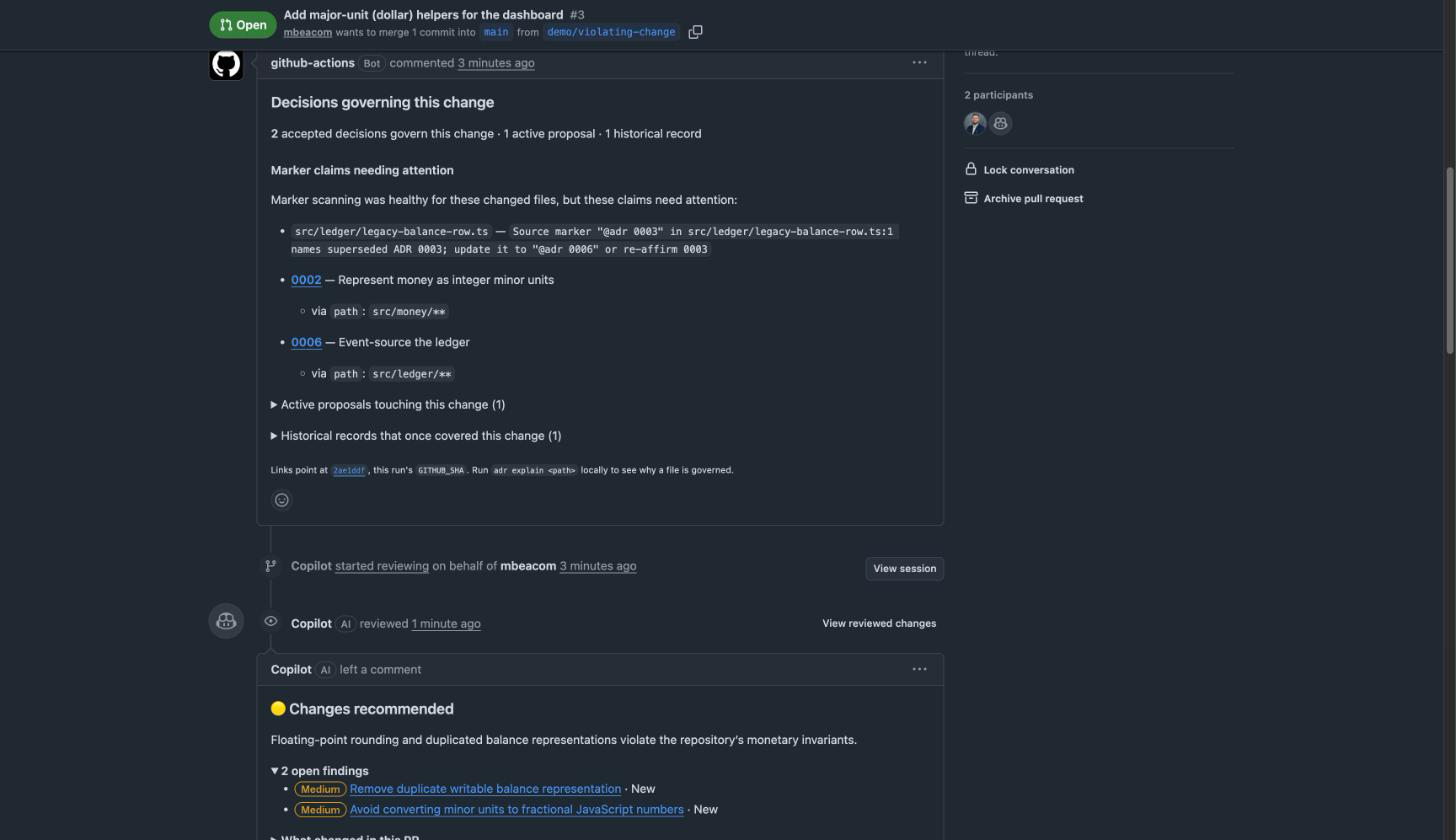
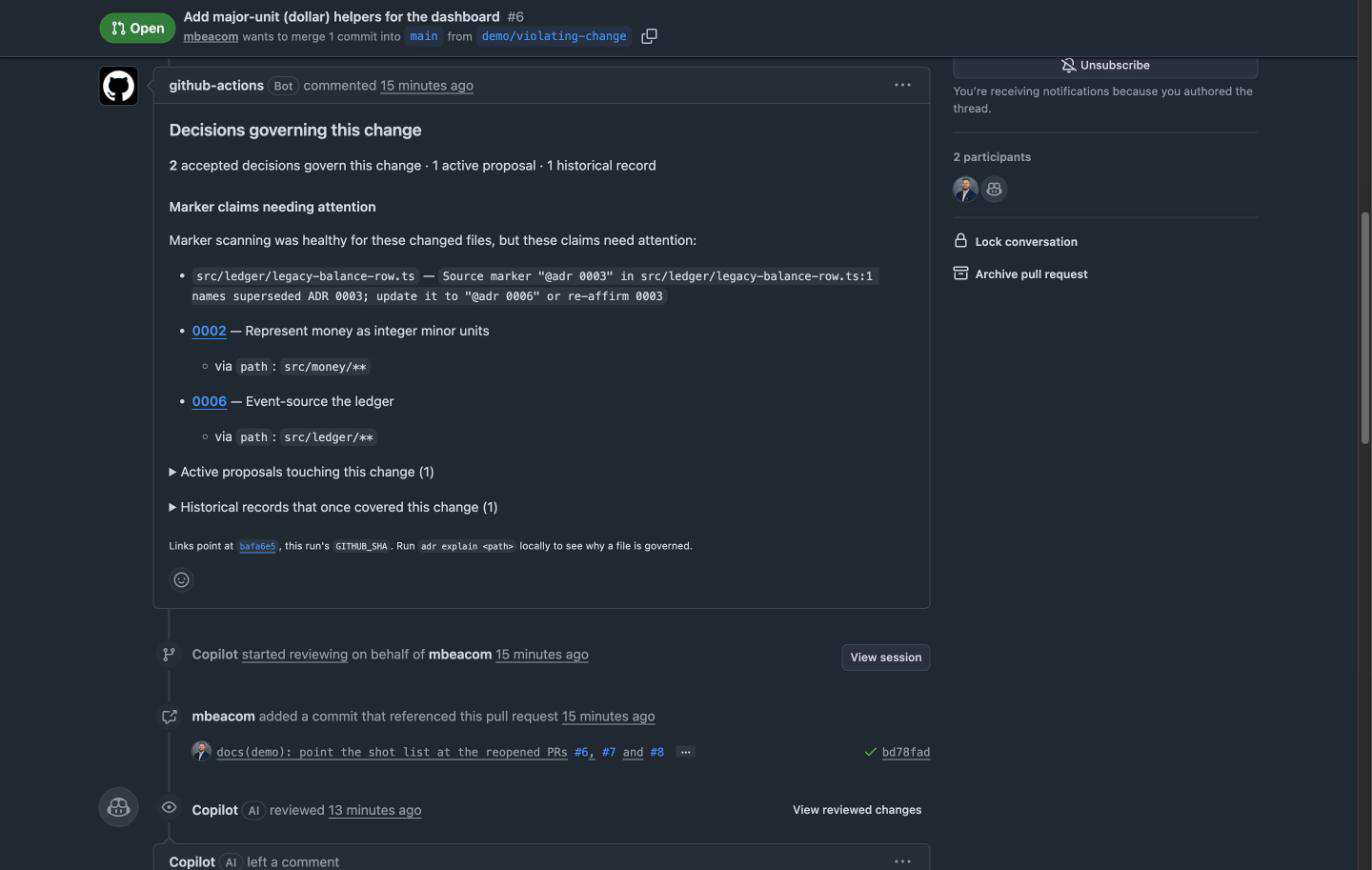
docs(demo): retake the PR screenshots on the reopened PRs

diff --git a/docs/demo/SHOTLIST.md b/docs/demo/SHOTLIST.md
@@ -166,7 +166,7 @@ The rest are free.
 
 PRs #7 and #8 both add an ADR-0010. They are screenshot subjects and stay open; merging either would force the other to renumber.
 
-The violating, new-decision and invalid-record PRs were first opened as #3, #4 and #5, and reopened as #6, #7 and #8 after a history rewrite. The screenshots below were taken on the originals, so they show the old numbers; retake them if the numbers matter on screen.
+The violating, new-decision and invalid-record PRs were first opened as #3, #4 and #5, and reopened as #6, #7 and #8 after a history rewrite. The screenshots below were retaken on the reopened PRs.
 
 ## Recorded already
 
@@ -189,6 +189,7 @@ The violating, new-decision and invalid-record PRs were first opened as #3, #4 a
 | G4 | `screenshots/issue-queue.png` | Managed ADR ARB Queue issue with 0010 and 0009 |
 | G5 | `screenshots/readme.png` | README rendering |
 | G6 | `screenshots/pr-4-comment.png` | New-decision PR #7 and its comment |
+| G6b | `screenshots/pr-4-description.png` | New-decision PR #7's description |
 
 Re-render a tape from the repository root with `vhs docs/demo/tapes/<name>.tape`.
 `06` needs the branch first: `DEMO_PUSH=0 demo/violating-change.sh`, then
